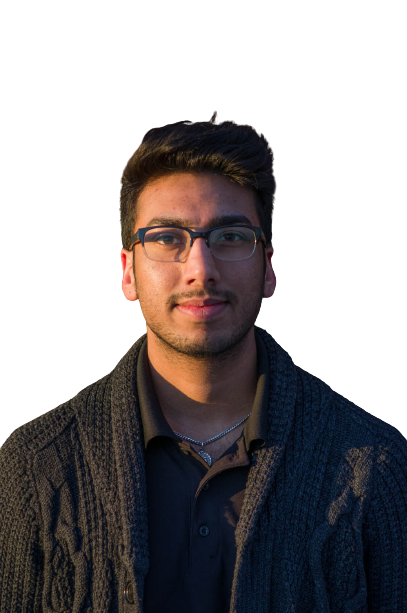
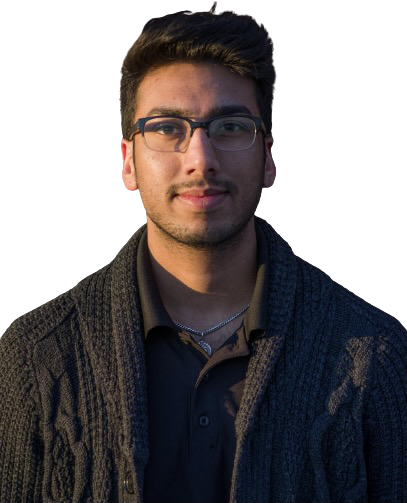
Completed about me section

diff --git a/src/components/About.js b/src/components/About.js
@@ -1,0 +1,46 @@
+/** @jsxImportSource @emotion/react */
+import {css} from '@emotion/react'
+
+
+function About(){
+
+    return(
+        <div className="hero is-halfheight"
+            css={css`
+                background-color: rgb(29, 28, 26); 
+            `}
+        >
+        <div className="columns is-centered py-6">
+                <div className="column has-text-centered is-one-quarter mr-6">
+                    <div className="figure">
+                        <img src="profilepicnb.png" alt="" />
+                    </div>
+                </div>
+                <div className="column has-text-left is-half">
+                    <div className="content">
+                        <h1 className="title has-text-white is-family-monospace">ABOUT ME</h1>
+                        <p className='has-text-white has-text-justified is-family-monospace is-1'>
+                            Hello! My name is Rohinesh and I am currently pursuing a Masters in Software Engineering at the University of Calgary.
+                            I graduated with a Bachelors in Mechanical Engineering with distinction from the University of Alberta in 2018.
+                            After graduating, I worked in the manufacturing industry designing equipment, managing projects, and troubleshooting issues during time-sensitive, multi-million dollar projects.
+                            I enjoyed my role as a design engineer, however, I've always had a passion for software and the innovative medium it provides. During my free time after work, I would tinker 
+                            with embedded programming projects until I decided to pivot and pursue a career in software. Aside from coding, I also enjoy playing soccer and video games.
+                            <br /><br/>
+                            My experience in the manufacturing industry taught me to pay attention to details, how to work under pressure, and above all else, how to problem solve under pressure.
+                            I subscribe to the First Principles approach to problem solving in which complicated problems are broken down into basic, fundamental elements, and then reassembled from the ground up.
+                            This problem solving technique has allowed me to present fundamentally sound and creative solutions to my clients and colleagues.
+                            <br /><br />
+                            The source of my motivation is my pursuit of knowledge and desire to deliver functional, well designed products that exceed expectations. I am passionate about Machine Learning, Big Data,
+                            and DevOps, and my current goal is to join a fast-paced company that enables me to learn and grow in these fields.
+
+                            Thank you so much for browsing my website and feel free to contact me.
+                        </p>
+                    </div>
+                </div>
+            </div>
+
+        </div>
+    )
+};
+
+export default About;

diff --git a/src/components/Home.js b/src/components/Home.js
@@ -2,8 +2,8 @@
 import {css} from '@emotion/react'
 
 let i = 0;
-let txt = "Hello! My name is Rohinesh and I am a Software and Mechanical Engineer";
-let speed = 100;
+let txt = "My name is Rohinesh, and I am a Software and Mechanical Engineer.";
+let speed = 50;
 
 function typeWriter(){
     if(i < txt.length){
@@ -24,10 +24,11 @@ function Home(){
         background-attachment: fixed;
         background-repeat: no-repeat;
         display: flex;
+        border-bottom: 2px solid black
     `
 
     return(
-        <section className="hero is-large"
+        <section className="hero is-fullheight"
             css={style}>
             <div className="py-2 hero-head">
                 <div className="navbar">
@@ -43,9 +44,6 @@ function Home(){
                         </div>
                         <div className="navbar-menu">
                             <div className="navbar-end">
-                                <a href="" className="navbar-item has-text-white">
-                                    HOME
-                                </a>
                                 <a href="" className='navbar-item has-text-white'>
                                     ABOUT
                                 </a>
@@ -68,9 +66,9 @@ function Home(){
             </div>
             <div className="hero-body">
                 <div className="container has-text-centered">
-                    <div className="text has-text-white is-size-3" id="intro" css={
+                    <div className="text has-text-dark-grey is-size-2 has-text-weight-bold" id="intro" css={
                         css`
-                            font-family:serif
+                            font-family:courier
                         `
                     }/>
                 </div>

diff --git a/src/App.js b/src/App.js
@@ -1,11 +1,12 @@
 import 'bulma/css/bulma.css'
-import Navbar from './components/Navbar';
 import Home from './components/Home';
+import About from './components/About';
 
 function App() {
   return (
     <div>
       <Home/>
+      <About/>
     </div>
   );
 }
